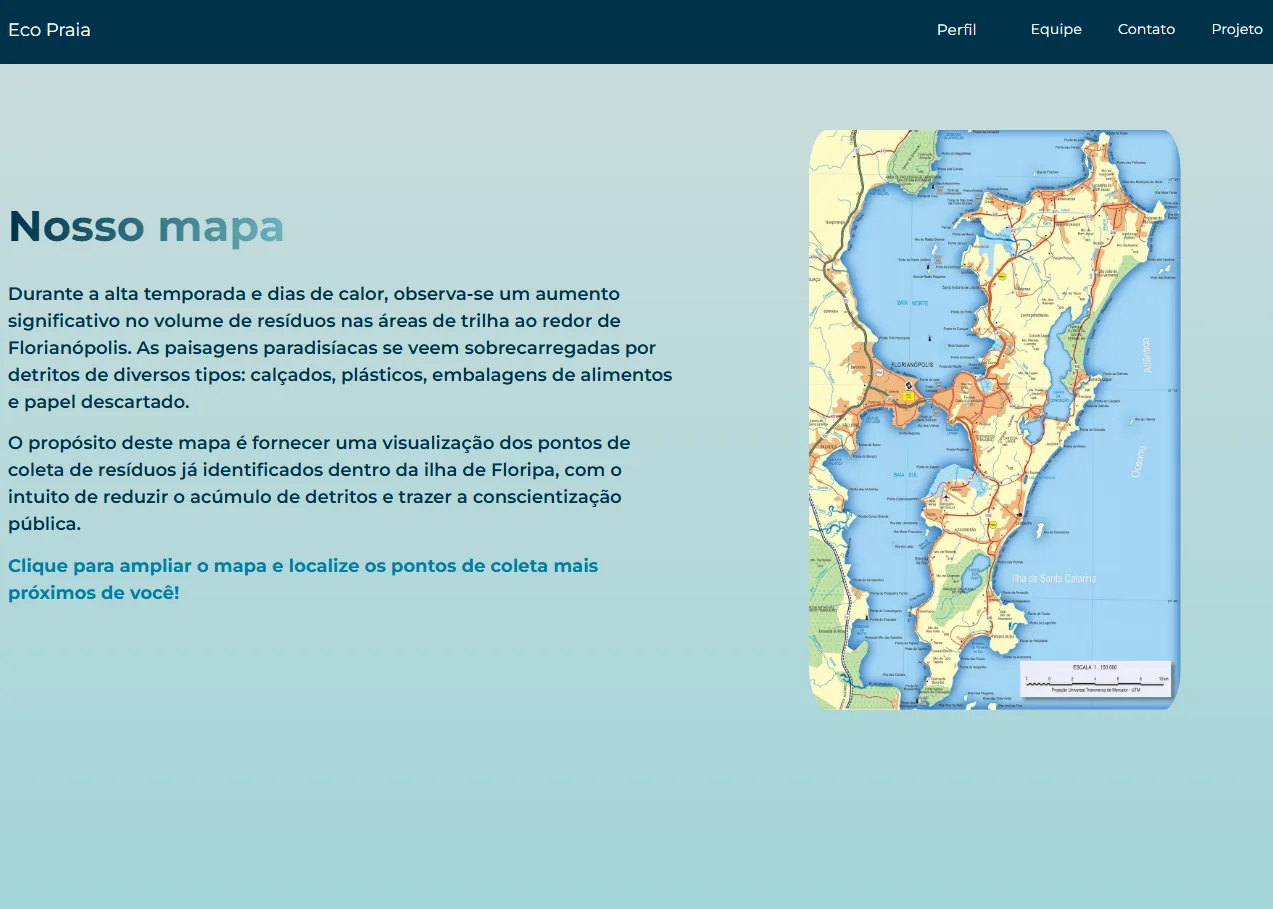
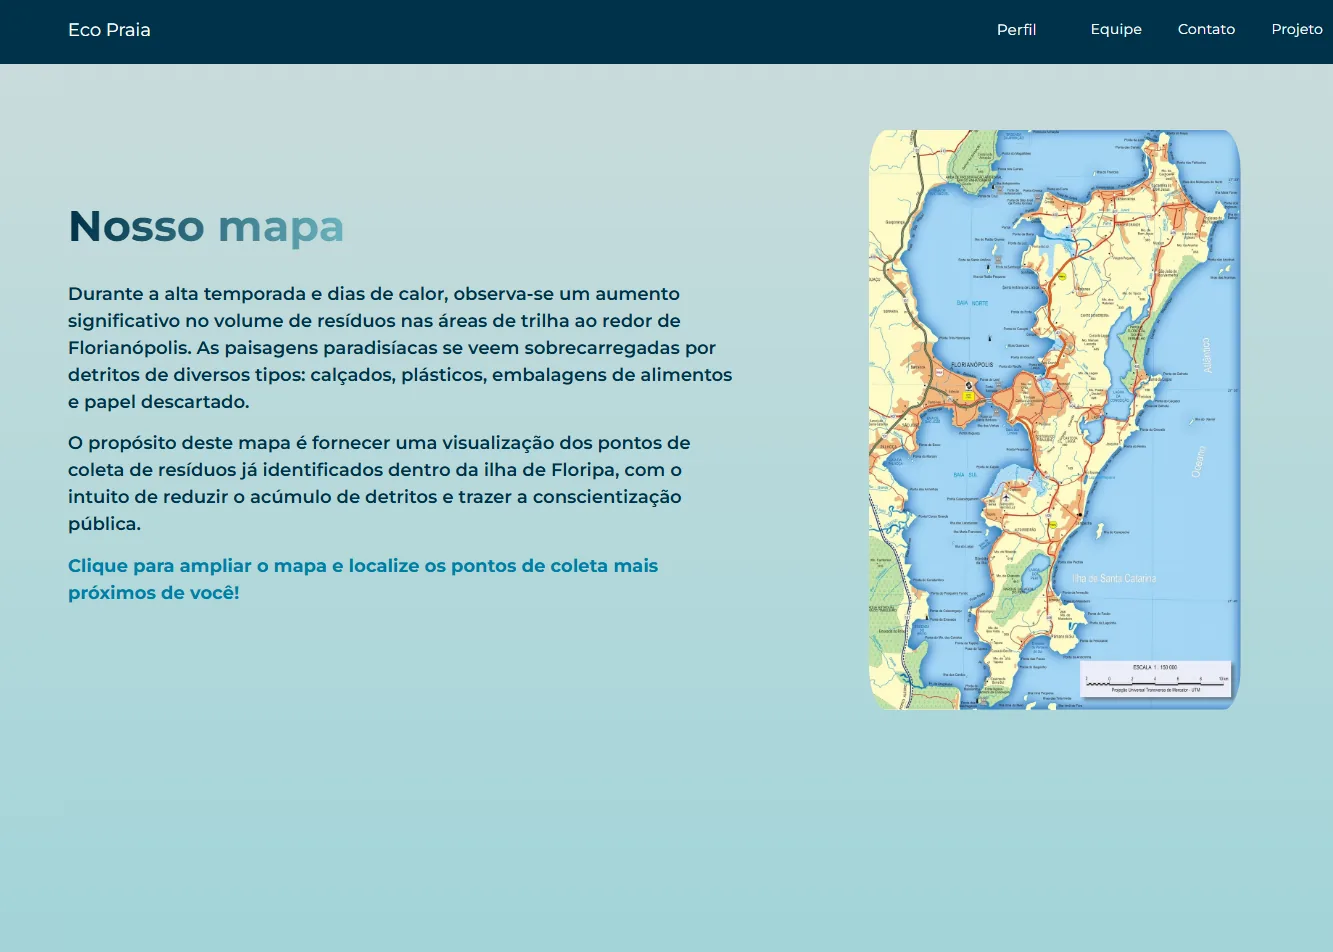
papelaria volta ao normal, ecopraia em 7x5 e margem na tela principal

diff --git a/design.html b/design.html
@@ -44,7 +44,7 @@
     <section class="projeto">
       <h2>Papelaria Plug</h2>
       <p>Banners criados para a propaganda de produtos exibidos no site da Papelaria Plug.</p>
-      <ul class="gallery gallery--duas gallery--inteiras">
+      <ul class="gallery gallery--duas">
         <li><a class="photo" href="assets/img/design/papelaria-plug/banner-site.webp"><img src="assets/img/design/papelaria-plug/banner-site.webp" alt="Banner do Caderno Inteligente aplicado na página inicial do site da Papelaria Plug" width="1141" height="819" loading="lazy"></a></li>
         <li><a class="photo" href="assets/img/design/papelaria-plug/banner-1.webp"><img src="assets/img/design/papelaria-plug/banner-1.webp" alt="Banner do &quot;Caderno inteligente&quot;, com cadernos de bolinhas e de abacates" width="647" height="731" loading="lazy"></a></li>
         <li><a class="photo" href="assets/img/design/papelaria-plug/banner-2.webp"><img src="assets/img/design/papelaria-plug/banner-2.webp" alt="Banner de mochilas Lilica Ripilica, com a personagem coala" width="595" height="619" loading="lazy"></a></li>
@@ -57,9 +57,9 @@
       <h2>EcoPraia Florianópolis</h2>
       <p>Projeto acadêmico onde foi feito o layout de um site de coleta de resíduos na cidade de Florianópolis.</p>
       <p class="projeto__partes">Abas de login e cadastro - Tela principal - Desenho do mapa</p>
-      <ul class="gallery gallery--duas gallery--iguais gallery--4x3">
+      <ul class="gallery gallery--duas gallery--iguais gallery--7x5">
         <li><a class="photo" href="assets/img/design/ecopraia/figma.webp"><img src="assets/img/design/ecopraia/figma.webp" alt="Visão geral das telas do projeto EcoPraia no Figma" width="846" height="606" loading="lazy"></a></li>
-        <li><a class="photo" href="assets/img/design/ecopraia/tela-principal.webp"><img src="assets/img/design/ecopraia/tela-principal.webp" alt="Tela principal do site EcoPraia, com o texto &quot;Nosso mapa&quot; e o mapa de Florianópolis" width="1273" height="909" loading="lazy"></a></li>
+        <li><a class="photo" href="assets/img/design/ecopraia/tela-principal.webp"><img src="assets/img/design/ecopraia/tela-principal.webp" alt="Tela principal do site EcoPraia, com o texto &quot;Nosso mapa&quot; e o mapa de Florianópolis" width="1333" height="952" loading="lazy"></a></li>
         <li><a class="photo" href="assets/img/design/ecopraia/login.webp"><img src="assets/img/design/ecopraia/login.webp" alt="Tela de login e cadastro do EcoPraia" width="1041" height="824" loading="lazy"></a></li>
         <li><a class="photo" href="assets/img/design/ecopraia/mapa.webp"><img src="assets/img/design/ecopraia/mapa.webp" alt="Mapa da ilha de Florianópolis com os pontos de coleta de resíduos marcados" width="1236" height="913" loading="lazy"></a></li>
       </ul>

diff --git a/css/galeria.css b/css/galeria.css
@@ -51,15 +51,8 @@
   object-fit: cover;
 }
 
-.gallery--4x3 img {
-  aspect-ratio: 4 / 3;
-}
-
-/* mesmo tamanho mas sem cortar (pros banners com texto na borda) */
-.gallery--inteiras img {
-  aspect-ratio: 1 / 1;
-  object-fit: contain;
-  background-color: var(--fundo-2);
+.gallery--7x5 img {
+  aspect-ratio: 7 / 5;
 }
 
 /* projetos de design */
